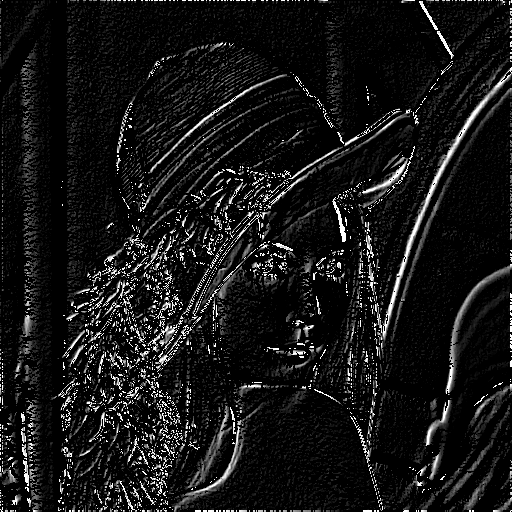
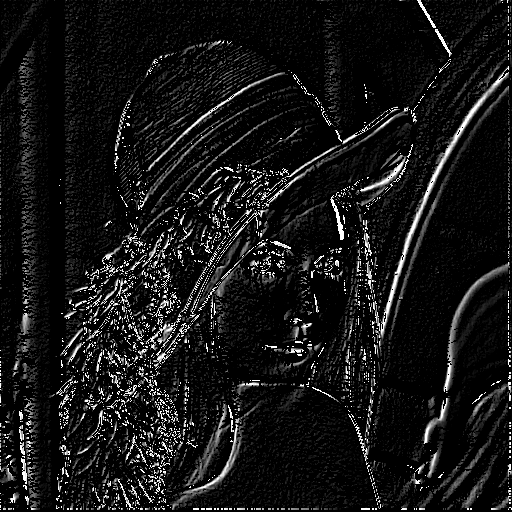
adding MPI implementation of prewitt, boxfilter, gaussian filter

diff --git a/edge_detection/MPI/prewittMPI.c b/edge_detection/MPI/prewittMPI.c
@@ -1,0 +1,147 @@
+#include <stdio.h>
+#include <stdlib.h>
+#include <mpi.h> 
+#include <omp.h>
+#include <math.h>
+#include "../../lodepng.h"
+
+unsigned char output_image[512*512*4];
+unsigned char bw_image[512*512*4];
+unsigned char cal[512*512*4];
+unsigned char temp[512*512*4];
+unsigned char padded_image[550][550][3];
+
+unsigned char conv(int y, int x, int color, double kernel[3][3]) {
+
+    double ans=0;
+
+    int YlowerLimit = y-1;
+    int YupperLimit = y+1;
+    int XlowerLimit = x-1;
+    int XupperLimit = x+1;
+
+    for(int i=YlowerLimit; i<=YupperLimit; i++){
+        for(int j=XlowerLimit; j<=XupperLimit; j++){
+            ans = ans + ((int)padded_image[i][j][color])*kernel[i-YlowerLimit][j-XlowerLimit];
+        }
+    }
+
+    return ans;
+
+}
+
+
+int main(int argc,char *argv[ ])
+{
+    int size,rank;
+
+    const char* filename = argc > 1 ? argv[1] : "../../lena.png";
+    
+    unsigned error;
+    unsigned char* in_image;
+    
+    unsigned width, height;
+    int temp2=0, threshold= 170;
+    double t1=0, t2;
+    int w1, h1;
+    int len;
+
+    // kernels 
+    double kernel1[3][3] = {{-1,0,1},{-1,0,1},{-1,0,1}};
+    double kernel2[3][3] = {{-1,-1,-1},{0,0,0},{1,1,1}};
+
+    
+    MPI_Init(&argc,&argv);
+    MPI_Comm_size(MPI_COMM_WORLD,&size);
+    MPI_Comm_rank(MPI_COMM_WORLD,&rank);
+
+    if(rank==0) 
+    {  
+        error = lodepng_decode32_file(&in_image, &width, &height, filename);
+        if(error) printf("error %u: %s\n", error, lodepng_error_text(error));
+        len = (int)(height*width*4)/size;
+        w1 = (int)width;
+        h1 = (int)height;
+        t1 = omp_get_wtime();
+    }
+
+    MPI_Bcast(&len, 1, MPI_INT, 0, MPI_COMM_WORLD);
+    MPI_Bcast(&h1, 1, MPI_INT, 0, MPI_COMM_WORLD);
+    MPI_Bcast(&w1, 1, MPI_INT, 0, MPI_COMM_WORLD);
+
+    MPI_Bcast(temp, len, MPI_UNSIGNED_CHAR, 0, MPI_COMM_WORLD);
+    MPI_Bcast(bw_image, len*size, MPI_UNSIGNED_CHAR, 0, MPI_COMM_WORLD);
+
+    // bw image
+    MPI_Scatter(in_image, len, MPI_UNSIGNED_CHAR, cal, len, MPI_UNSIGNED_CHAR, 0, MPI_COMM_WORLD);
+    for(int k=0; k<1; k++){
+        for(int i=0; i<len; i=i+4){
+            temp[i+0] = cal[i]*0.299 + cal[i+1]*0.587 + cal[i+2]*0.114; 
+            temp[i+1] = cal[i]*0.299 + cal[i+1]*0.587 + cal[i+2]*0.114; 
+            temp[i+2] = cal[i]*0.299 + cal[i+1]*0.587 + cal[i+2]*0.114; 
+            temp[i+3] = cal[i]; 
+        }
+    }
+    MPI_Gather(temp, len, MPI_UNSIGNED_CHAR, bw_image, len, MPI_UNSIGNED_CHAR, 0, MPI_COMM_WORLD);
+    MPI_Barrier(MPI_COMM_WORLD);
+
+    if(rank==0){
+        for(int i=0; i< (int) height; i++) {
+            for(int j=0; j< (int) width; j++){
+                if(i==0 || i==(int)height+1 || j==2 || j==(int)width+1){
+                    padded_image[i][j][0] = 0;
+                    padded_image[i][j][1] = 0;
+                    padded_image[i][j][2] = 0;
+                }
+                else {
+                    padded_image[i][j][0] = bw_image[i*width*4 + j*4 + 0];
+                    padded_image[i][j][1] = bw_image[i*width*4 + j*4 + 1];
+                    padded_image[i][j][2] = bw_image[i*width*4 + j*4 + 2];
+                }
+          
+            }
+        }
+    }
+
+    MPI_Bcast(padded_image, 550*550*3, MPI_UNSIGNED_CHAR, 0, MPI_COMM_WORLD);
+    MPI_Bcast(output_image, len*size, MPI_UNSIGNED_CHAR, 0, MPI_COMM_WORLD);
+    MPI_Bcast(&temp2, 1, MPI_INT, 0, MPI_COMM_WORLD);
+    MPI_Bcast(&threshold, 1, MPI_INT, 0, MPI_COMM_WORLD);
+    MPI_Bcast(kernel1, 9, MPI_DOUBLE, 0, MPI_COMM_WORLD);
+    MPI_Bcast(kernel2, 9, MPI_DOUBLE, 0, MPI_COMM_WORLD);
+
+    MPI_Scatter(bw_image, len, MPI_UNSIGNED_CHAR, cal, len, MPI_UNSIGNED_CHAR, 0, MPI_COMM_WORLD);  
+
+    int iPad = len*rank;
+    int jPad = len*rank;
+    for(int k=0; k<1; k++){
+        for(int i=0; i<len; i=i+4){
+            temp2 = sqrt( pow(conv((i+iPad)/(w1*4)+3,((i+jPad)/4+3)%w1,0,kernel1),2) + pow(conv((i+iPad)/(w1*4)+3,((i+jPad)/4+3)%w1,0,kernel2),2) );
+            if(temp2 > threshold){
+                cal[i+0] = 0;
+                cal[i+1] = 0;
+                cal[i+2] = 0;
+                cal[i+3] = 255;
+            }
+            else {
+                cal[i+0] = 2.0*temp2 > 255.0 ? 255.0 : 2.0*temp2;
+                cal[i+1] = 2.0*temp2 > 255.0 ? 255.0 : 2.0*temp2;
+                cal[i+2] = 2.0*temp2 > 255.0 ? 255.0 : 2.0*temp2;
+                cal[i+3] = 255;
+            }
+        }
+    }
+    
+    MPI_Gather(cal, len, MPI_UNSIGNED_CHAR, output_image, len, MPI_UNSIGNED_CHAR, 0, MPI_COMM_WORLD);
+
+    if(rank==0){
+        t2 = omp_get_wtime();
+        printf("%f\n",t2-t1);
+        error = lodepng_encode32_file("../../output.png", output_image, width, height);
+        if(error) printf("error %u: %s\n", error, lodepng_error_text(error));
+        // printf("Done\n");
+    }
+
+    MPI_Finalize();
+    return 0;
+}

diff --git a/filters/MPI/gaussianFilterMPI.c b/filters/MPI/gaussianFilterMPI.c
@@ -2,15 +2,16 @@
 #include <stdlib.h>
 #include <mpi.h> 
 #include <omp.h>
+#include <math.h>
 #include "../../lodepng.h"
 
 unsigned char output_image[512*512*4];
 unsigned char cal[512*512*4];
 unsigned char rgb_image[550][550][3];
 
-unsigned char find_avg(int y, int x, int color) {
+unsigned char find_avg(int y, int x, int color, double kernel[7][7]) {
 
-    unsigned int ans=0;
+    double ans=0;
 
     int YlowerLimit = y-3;
     int YupperLimit = y+3;
@@ -19,10 +20,11 @@ unsigned char find_avg(int y, int x, int color) {
 
     for(int i=YlowerLimit; i<=YupperLimit; i++){
         for(int j=XlowerLimit; j<=XupperLimit; j++){
-            ans += rgb_image[i][j][color];
+            ans = ans + ((int)rgb_image[i][j][color])*kernel[i-YlowerLimit][j-XlowerLimit];
         }
     }
-    return ans/49;
+
+    return ans;
 
 }
 
@@ -31,6 +33,14 @@ int main(int argc,char *argv[ ])
     int size,rank;
 
     const char* filename = argc > 1 ? argv[1] : "../../lena.png";
+    
+    // gaussian 7x7 kernel
+    double kernel[7][7];
+    double stDev = 13.0; 
+    double r, s = 2.0 * stDev * stDev;
+ 
+    // sum is for normalization
+    double sum = 0.0;
     
     unsigned error;
     unsigned char* in_image;
@@ -70,12 +80,26 @@ int main(int argc,char *argv[ ])
             }
         }
 
+        for (int x = -3; x <= 3; x++) {
+            for (int y = -3; y <= 3; y++) {
+                r = sqrt(x*x + y*y);
+                kernel[x + 3][y + 3] = (exp(-(r * r) / s)) / (3.14159265358979323846 * s);
+                sum += kernel[x + 3][y + 3];
+            }
+        }
+
+        // normalising the Kernel
+        for (int i = 0; i < 7; i++)
+            for (int j = 0; j < 7; j++)
+                kernel[i][j] /= sum;
+
         t1 = omp_get_wtime();
     }
 
     MPI_Bcast(&len, 1, MPI_INT, 0, MPI_COMM_WORLD);
     MPI_Bcast(&h1, 1, MPI_INT, 0, MPI_COMM_WORLD);
     MPI_Bcast(&w1, 1, MPI_INT, 0, MPI_COMM_WORLD);
+    MPI_Bcast(kernel, 49, MPI_DOUBLE, 0, MPI_COMM_WORLD);
     MPI_Bcast(rgb_image, 550*550*3, MPI_UNSIGNED_CHAR, 0, MPI_COMM_WORLD);
     MPI_Bcast(output_image, len*size, MPI_UNSIGNED_CHAR, 0, MPI_COMM_WORLD);
     MPI_Scatter(in_image, len, MPI_UNSIGNED_CHAR, cal, len, MPI_UNSIGNED_CHAR, 0, MPI_COMM_WORLD);  
@@ -87,7 +111,7 @@ int main(int argc,char *argv[ ])
     for(int k=0; k<1000; k++){
         for(int i=0; i<len; i++){
             if(i%4==3) cal[i] = 255;
-            else cal[i] = find_avg((i+iPad)/(w1*4)+3, ((i+jPad)/4+3)%w1, i%4);
+            else cal[i] = find_avg((i+iPad)/(w1*4)+3, ((i+jPad)/4+3)%w1, i%4, kernel);
         }
     }
     

diff --git a/edge_detection/OpenMP/prewittOpenMP.cpp b/edge_detection/OpenMP/prewittOpenMP.cpp
@@ -4,7 +4,7 @@
 
 using namespace std;
 
-unsigned char conv(int y, int x, int color, unsigned char rgb_image[821][1026][3], double kernel[3][3]) {
+unsigned char conv(int y, int x, int color, unsigned char padded_image[821][1026][3], double kernel[3][3]) {
 
     double ans=0;
 
@@ -15,7 +15,7 @@ unsigned char conv(int y, int x, int color, unsigned char rgb_image[821][1026][3
 
     for(int i=YlowerLimit; i<=YupperLimit; i++){
         for(int j=XlowerLimit; j<=XupperLimit; j++){
-            ans = ans + ((int)rgb_image[i][j][color])*kernel[i-YlowerLimit][j-XlowerLimit];
+            ans = ans + ((int)padded_image[i][j][color])*kernel[i-YlowerLimit][j-XlowerLimit];
         }
     }
 

diff --git a/edge_detection/serial/prewitt.cpp b/edge_detection/serial/prewitt.cpp
@@ -4,7 +4,7 @@
 
 using namespace std;
 
-unsigned char conv(int y, int x, int color, unsigned char rgb_image[821][1026][3], double kernel[3][3]) {
+unsigned char conv(int y, int x, int color, unsigned char padded_image[821][1026][3], double kernel[3][3]) {
 
     double ans=0;
 
@@ -15,7 +15,7 @@ unsigned char conv(int y, int x, int color, unsigned char rgb_image[821][1026][3
 
     for(int i=YlowerLimit; i<=YupperLimit; i++){
         for(int j=XlowerLimit; j<=XupperLimit; j++){
-            ans = ans + ((int)rgb_image[i][j][color])*kernel[i-YlowerLimit][j-XlowerLimit];
+            ans = ans + ((int)padded_image[i][j][color])*kernel[i-YlowerLimit][j-XlowerLimit];
         }
     }
 
